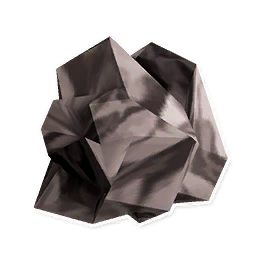
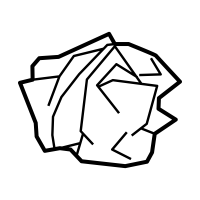
Initial commit

diff --git a/box1.js b/box1.js
@@ -1,4 +1,4 @@
-class Box1 {
+class Box {
     constructor(x, y, width, height) {
       var options = {
           isStatic:true
@@ -6,8 +6,6 @@ class Box1 {
       this.body = Bodies.rectangle(x, y, width, height, options);
       this.width = width;
       this.height = height;
-
-      this.image = loadImage('dustbingreen.png');
       
       World.add(world, this.body);
     }
@@ -17,16 +15,10 @@ class Box1 {
       push();
       translate(pos.x,pos.y);
       rotate(angle);
-
-
-      imageMode(CENTER);
-      image(this.image, 0, -50, 100,120);
-
-
-      // rectMode(CENTER);
-      // fill(0);
-      // strokeWeight(0);
-      // rect(0,0, this.width, this.height);
+      rectMode(CENTER);
+      fill(0);
+      strokeWeight(0);
+      rect(0,0, this.width, this.height);
       pop();
     }
   }

diff --git a/sketch.js b/sketch.js
@@ -19,9 +19,9 @@ function setup() {
 	//Create the Bodies Here.
 	
 	smolball = new Ball(100,400,20);
-	right = new Box(790,430,10,80);
-	bottom = new Box(720,470,150,10);
-	left = new Box(640,435,10,80);
+	right = new Box(760,430,10,80);
+	bottom = new Box1(720,470,150,10);
+	left = new Box(680,435,10,80);
 
 	floor = new Ground(width/2,500,width,50);
 
@@ -38,16 +38,16 @@ function draw() {
   drawSprites();
   
   smolball.display();
-  right.display();
-  bottom.display()
+  right.display();  
   left.display();
+  bottom.display()
   floor.display();
  
 }
 
 function keyPressed(){
 	if (keyCode=== UP_ARROW){
-		Matter.Body.applyForce(smolball.body,smolball.body.position,{x:52,y:-52})
+		Matter.Body.applyForce(smolball.body,smolball.body.position,{x:55,y:-52})
 	}
 }
 

diff --git a/paper.js b/paper.js
@@ -7,6 +7,7 @@ class Ball {
       }
       this.body = Bodies.circle(x, y, radius, options, 35);
       this.radius = radius;
+      this.Ball = loadImage('paper.png');
       
       World.add(world, this.body);
     }
@@ -16,11 +17,16 @@ class Ball {
       push();
       translate(pos.x,pos.y);
       rotate(angle);
-      ellipseMode(RADIUS);
-      fill(97,152,162);
-      strokeWeight(0);
-      ellipse(0,0, this.radius);
+      
+      imageMode(CENTER);
+      image(this.Ball, 0, 0, 70, 70);
+
+      // ellipseMode(RADIUS);
+      // fill(97,152,162);
+      // strokeWeight(0);
+      // ellipse(0,0, this.radius);
       pop();
+
     }
   }
   

diff --git a/index.html b/index.html
@@ -11,6 +11,7 @@
       <script src="paper.js"></script>
       <script src="ground.js"></script>
       <script src="box.js"></script>
+      <script src="box1.js"></script>
       <script src="sketch.js"></script>
 
     </head>
